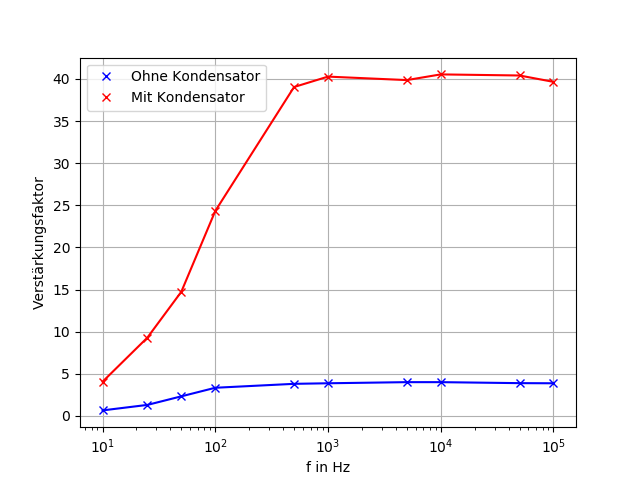
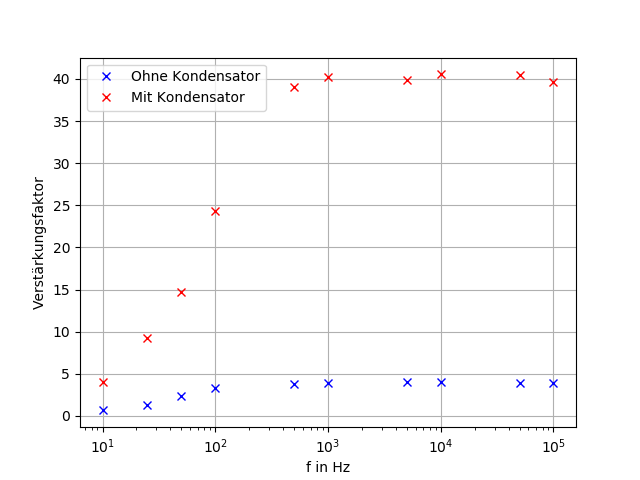
opv fix

diff --git a/opv/opv.py b/opv/opv.py
@@ -14,9 +14,9 @@ def a14():
     vmk = dmK[2]/dmK[1]
 
     plt.plot(doK[0], vok, "xb", label = "Ohne Kondensator")
-    plt.plot(doK[0], vok, "-b")
+    #plt.plot(doK[0], vok, "-b")
     plt.plot(dmK[0], vmk, "xr", label = "Mit Kondensator")
-    plt.plot(dmK[0], vmk, "-r")
+    #plt.plot(dmK[0], vmk, "-r")
     plt.legend()
     plt.xscale("log")
     plt.xlabel("f in Hz")
@@ -31,7 +31,7 @@ def a23():
     v = d[1]/0.5
 
     plt.plot(d[0], v, "xb")
-    plt.plot(d[0], v, "-b")
+    #plt.plot(d[0], v, "-b")
     plt.legend()
     plt.xscale("log")
     plt.xlabel("f in Hz")
@@ -40,5 +40,5 @@ def a23():
     plt.show()
     return;
 
-
+a14()
 a23()
